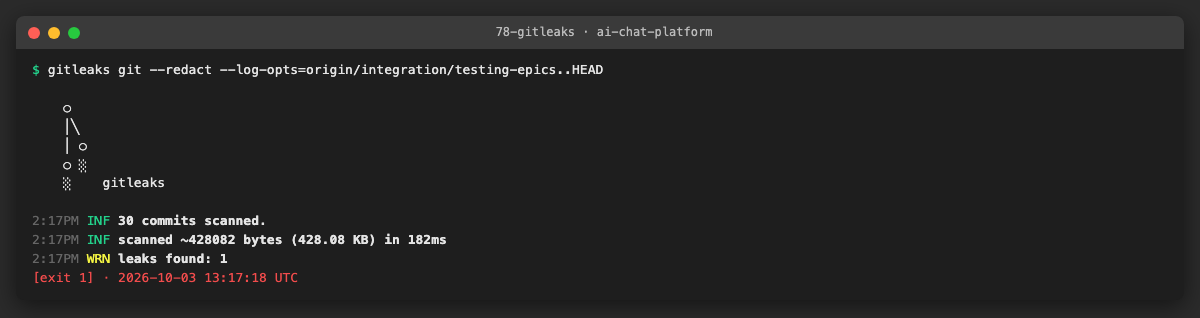
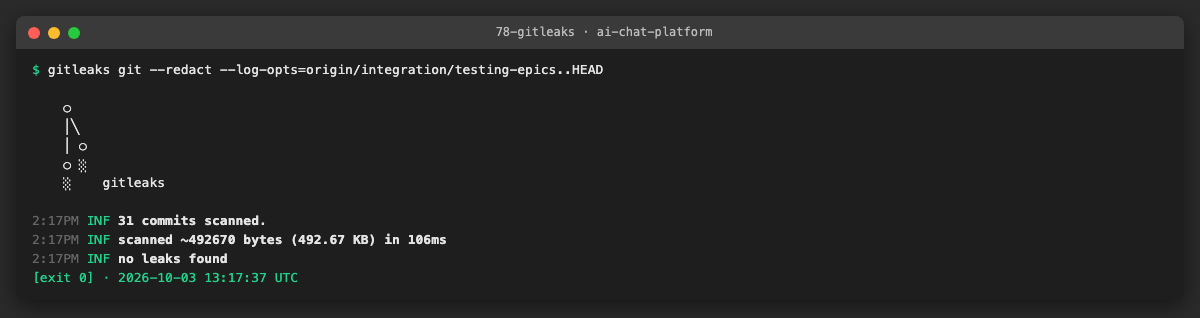
docs(mock): write US15 to US18 in the work log and fill the results, DoD and notes
Refs: AICHAT-144

diff --git a/docs/AICHAT-144/WORKLOG.md b/docs/AICHAT-144/WORKLOG.md
@@ -512,28 +512,176 @@ pnpm exec nx test mock-server
 ![Masked request log and reset](evidence/55-masked-request-log.png)
 ![mock-server tests](evidence/56-mock-server-tests.png)
 
-**Problems and fixes.** The log needs the parsed body, so the JSON parser runs before the mock routers; the parser skips a body that is already parsed, so routers that call `express.json()` themselves still work. The log is written when the request arrives and the status is filled in when the response finishes, so a slow request is already listed while it waits.
+**Problems and fixes.** The log needs the parsed body, so the JSON parser runs before the mock routers; the parser skips a body that is already parsed, so routers that call `express.json()` themselves still work. After the merge we changed this: the log no longer answers a malformed body itself (see the integration fixes in section 7). The log is written when the request arrives and the status is filled in when the response finishes, so a slow request is already listed while it waits.
+
+### US15 · Contract tests for the mocks ([AICHAT-151](https://ipca-grupo11.atlassian.net/browse/AICHAT-151))
+
+**What and why.** A mock that drifts from the real thing is worse than no mock. Two contract tests keep the mocks honest and fail CI when they drift. The LLM test starts the mock in-process and calls it with the real `AnthropicProvider` and `OpenAiProvider` of conversation-service, once for every scenario the mock registers (and for every recorded fixture served by `replay:`). Every scenario needs an entry in the expectation table, so a new scenario nobody checked fails the test. The backend test drives the auth and conversation mocks and checks each kind of response twice: against the service schemas in `src/conversation/contract.ts` (no missing and no extra field), and against `@platform/shared-types`. Where shared-types differs from the services, the mock follows the services and the difference is in an exact drift list in the test. A new difference fails the test, and so does a difference that was fixed but is still listed.
+
+**Files.**
+- `testing/mock-server/src/contract/llm.contract.spec.ts` (new): real adapters against every LLM scenario.
+- `testing/mock-server/src/contract/backend.contract.spec.ts` (new): responses and stream events against the service schemas and shared-types, the drift lists, and a check that what shared-types accepts as a request is accepted by the mock.
+- `testing/mock-server/project.json`: `implicitDependencies: ["conversation-service"]`, so a change to the adapters re-runs the mock-server tests in `nx affected`.
+
+**How to run.**
+
+```sh
+pnpm exec nx test mock-server
+cd testing/mock-server && pnpm exec vitest run src/contract
+```
+
+**How to repeat it manually.**
+
+1. Run `pnpm exec vitest run src/contract --reporter=verbose` in `testing/mock-server`. Expected: 30 tests pass, one per scenario and provider plus the backend checks.
+2. Add a required field to a shared-types schema, for example `pinned: z.boolean()` in `packages/shared-types/src/chat/chat.ts`, and run the backend contract test. Expected: it fails and prints the new difference `pinned: invalid_type` for `chat`. Undo the change.
+3. Add a scenario to the LLM mock without an entry in `EXPECTED`. Expected: "new scenario without a contract expectation".
+
+**Result.** Both tests pass on the current code, and the drift demo fails as intended.
+
+![Full run of the mock-server targets, 0 failures](evidence/70-mock-server-full-run.png)
+
+![Contract tests](evidence/71-contract-tests.png)
+
+![A change in shared-types fails the backend contract test](evidence/72-contract-drift-fails.png)
+
+**Findings for AICHAT-20 (snapshot testing): drift of `@platform/shared-types` from the services.** The mock follows the services; these are the differences the test records.
+
+| Kind | Service sends | shared-types says |
+|---|---|---|
+| auth `register`, `login`, `me` | `{ id, email }` | `authResponseSchema` is `{ user: { id, email, createdAt } }` |
+| chat | has `ownerEmail` | no `ownerEmail` |
+| message | `status` `sent`; `authorId`, `authorEmail`, `error`; `attachments` as objects; role may be `system` | statuses `complete` and `canceled` instead of `sent`; none of those fields; only `attachmentIds` |
+| attachment | `filename`, `kind`, `size`, `messageId` | `originalFilename`, `ownerId`, `storedPath`, `extractedTextStatus`, mime type enum |
+| stream events | events `message` and `started`; `queued` without `position`; `error` has `retryable`; `done` may have `stopped` | no `message` and no `started`; `queued` needs `position`; `error` without `retryable`; `done` without `stopped` |
+
+The member entry and the error body (`{ error, correlationId }`) agree. One more finding, for AICHAT-25: when the connection drops in the middle of a stream, both adapters let fetch's own `TypeError: terminated` through instead of a `ProviderError`. The contract test only requires that the adapter fails, and the comment on the expectation says so.
+
+**Problems and fixes.** The tests import the adapters by a relative path, which the Nx module boundary rule forbids, so the import lines carry an explicit `eslint-disable` with the reason (the adapters are the code under test). The mock-server test then depends on conversation-service, which is why the implicit dependency is declared.
+
+### US16 · Compose profiles and one-command start with the mocks ([AICHAT-152](https://ipca-grupo11.atlassian.net/browse/AICHAT-152))
+
+**What and why.** Testers should start the app against the mocks with one command. `compose.mock.yaml` is used on top of `compose.yaml` and adds two profiles. `llm` is the real stack plus the mock: conversation-service gets `ANTHROPIC_BASE_URL` and `OPENAI_BASE_URL` pointing at the mock, so no provider key is needed. `frontend-only` is the shell and the three MFEs plus the mock: the shell proxies `/auth` and `/api` to the mock, and no database or backend service starts. In the overlay the real services are put in the `llm` profile, so they stay out of `frontend-only`; the plain `docker compose up` of `compose.yaml` is not touched. The shell for `frontend-only` is a second service, `shell-frontend-only`, that extends `shell`. The shell strips `/api` before it forwards, so its target is `http://mock-server:4010/api`.
+
+**Files.**
+- `compose.mock.yaml` (new): `mock-server`, the profile assignments, the base URLs and `shell-frontend-only`.
+- `scripts/mock-compose.sh`, `scripts/dev-mock.sh` (new) and `package.json`: `pnpm mock:up`, `pnpm mock:down`, `pnpm dev:mock`.
+- `scripts/ci/mock-chat-smoke.sh` (new): register, sign in, create a chat, send a message and read the stream through the shell.
+- `.gitleaks.toml`: narrow exception for the first version of the smoke script (a throwaway password).
+
+**How to run.**
+
+```sh
+pnpm mock:up                                      # profile llm, app on :8000, mock on :4010
+bash scripts/mock-compose.sh up frontend-only     # shell + MFEs + backend mock
+bash scripts/ci/mock-chat-smoke.sh                # one chat flow through the shell
+pnpm mock:down                                    # stops both profiles and removes the volumes
+pnpm dev:mock                                     # no Docker: dev servers + mock on :4010
+```
+
+**How to repeat it manually.**
+
+1. `pnpm mock:up`, then `docker compose -f compose.yaml -f compose.mock.yaml --profile llm ps`. Expected: postgres, auth-service, conversation-service, the MFEs, the shell, the observability services and `mock-server` are healthy.
+2. `bash scripts/ci/mock-chat-smoke.sh`. Expected: the stream shows `started`, 40 `token` events and `done`. The text comes from the mock through conversation-service.
+3. `pnpm mock:down`, then `bash scripts/mock-compose.sh up frontend-only` and the same smoke script. Expected: only `mfe-auth`, `mfe-chat`, `mfe-settings`, `mock-server` and `shell-frontend-only` run, and the flow works.
+
+**Result.** Both profiles start and answer the chat flow. In the `llm` profile the answer goes through the real conversation-service and the mock.
+
+![Profile llm: services and a chat flow](evidence/73-compose-llm-profile.png)
+
+![Profile frontend-only: services and a chat flow](evidence/75-compose-frontend-only-profile.png)
+
+**Problems and fixes.** Compose cannot leave out a service that has no profile, so the `frontend-only` profile needs the real backend services to be profile-bound; that is done in the overlay only (`profiles: !override [llm]`), which keeps the default stack and the existing deploy commands unchanged. The conversation-service environment is validated as a URL, so the variable cannot be left empty and the overlay sets it to the mock. Ports 4001, 4002, 9090 and 3300 were in use by another stack on the machine, so we ran with `AUTH_SERVICE_PORT`, `CONVERSATION_SERVICE_PORT`, `PROMETHEUS_PORT` and `GRAFANA_PORT` changed; the overlay needs nothing else. We checked the `frontend-only` profile with the default dataset and the chat flow by curl; we did not click through the UI in that profile. `pnpm dev:mock` has a syntax check only: we did not run the five dev servers.
+
+### US17 · E2E chat flows in CI against the mock ([AICHAT-153](https://ipca-grupo11.atlassian.net/browse/AICHAT-153))
+
+**What and why.** The e2e workflow needed a real Anthropic key for any chat spec, so in CI the chat specs were skipped. Now the workflow starts the stack with `pnpm mock:up` (profile `llm`) and sets `ANTHROPIC_API_KEY` to a placeholder text, so conversation-service calls the mock and no real key is used. The whole suite still runs, as before. A new spec covers the flows the story asks for: send, stream, cancel (Stop, and removing a queued message), retry and provider error. Each test creates its chat through the API with a model name such as `claude-haiku-4-5@long`, which picks the mock scenario (`ok`, `long`, `error-529`). For the retry test the chat goes back to the normal model after the failure, as if the provider recovered, and the Retry button then gets an answer.
+
+**Files.**
+- `.github/workflows/e2e.yml`: `pnpm mock:up` and `pnpm mock:down`, placeholder key instead of the secret.
+- `e2e/src/tests/chat-mock.spec.ts` (new): the four tests.
+- `e2e/src/fixtures/settings-flows.ts`: `configureAnthropicKey` uses its own locators.
+- `e2e/src/ci/e2e-workflow.spec.ts`: the structure test follows the new commands and checks the `llm` profile and the missing secret.
+
+**How to run.**
+
+```sh
+pnpm mock:up
+cd e2e && BASE_URL=http://localhost:8000 ANTHROPIC_API_KEY=mock-key pnpm exec playwright test chat-mock.spec.ts
+pnpm mock:down
+```
+
+**How to repeat it manually.** Start the `llm` profile, sign up in the browser at `http://localhost:8000`, save any text as the Anthropic key in Settings, create a chat and send a message. Expected: the answer streams in, Stop keeps the part already written. In the workflow file, `ANTHROPIC_API_KEY` is the text `mock-key-not-a-secret`.
+
+**Result.** The four tests pass locally against the `llm` profile. The GitHub run is pending the pull request.
+
+![Playwright chat flows against the llm profile](evidence/74-playwright-chat-flows-llm-profile.png)
+
+**Problems and fixes.** The settings helper `apiKeyField` matches the form and the input at once (strict mode violation), which broke every chat spec before it reached the chat; we gave `configureAnthropicKey` its own locators and left `apiKeyField` and `saveApiKey` as they are for the configuration specs. As agreed, the other failing specs (auth, configuration, shell selectors, AICHAT-4/5) are not touched. The older `chat.spec.ts` (US-13 to US-22) also fails against the current UI: "New chat" now opens a dialog, and the specs look for test ids and labels that do not exist (`assistant-message`, `user-message`). Rewriting it is outside this story, so the chat flows of this story are in the new spec. This is an open question for the report.
+
+### US18 · Mock server usage guide for the other testing epics ([AICHAT-154](https://ipca-grupo11.atlassian.net/browse/AICHAT-154))
+
+**What and why.** The epics AICHAT-18, 19, 21, 24, 26, 28 and 32 should reuse the mock instead of building their own. `MOCK-SERVER.md` has the run commands, the mock and scenario tables, the environment variables, the admin endpoints and a short example for each of those epics.
+
+**Files.**
+- `docs/AICHAT-144/MOCK-SERVER.md` (new).
+
+**How to run.** Open [MOCK-SERVER.md](MOCK-SERVER.md). The scenario tables match `GET /__admin/scenarios`.
+
+**How to repeat it manually.** Start the server, run `curl localhost:4010/__admin/scenarios` and compare the names with the tables. Run one of the examples, for example the AICHAT-32 one (`GET /__admin/requests?mock=collect`).
+
+**Result.** The guide is written; the tables were copied from the live scenario list.
+
+**Problems and fixes.** The examples for AICHAT-24, 26 and 28 name the tools (k6, ZAP) but we did not run those tools here; they show the mock side of the setup.
 
 ## 4. How to run everything
 
 ```sh
-# all checks added by this epic, from the repo root
+export PATH=$HOME/.nvm/versions/node/v24.21.0/bin:$PATH
+# all checks of the mock server
+pnpm exec nx run-many -t lint typecheck test build -p mock-server --skip-nx-cache
+# everything that changed against the integration branch
+pnpm exec nx affected -t lint typecheck test build --base=origin/integration/testing-epics
+# contract tests only
+cd testing/mock-server && pnpm exec vitest run src/contract
+# stack with the mock, chat flows, stop
+pnpm mock:up
+cd e2e && BASE_URL=http://localhost:8000 ANTHROPIC_API_KEY=mock-key pnpm exec playwright test chat-mock.spec.ts
+pnpm mock:down
+# security checks
+bash scripts/ci/semgrep.sh
+gitleaks git --redact --log-opts=origin/integration/testing-epics..HEAD
 ```
 
 ## 5. Results
 
 | Metric | Before | After |
 |---|---|---|
-| … | … | … |
+| mock-server tests after the three tracks were merged | 3 failing | all pass (evidence 70) |
+| Contract tests (LLM scenarios and backend responses) | none | 30 tests, new drift fails |
+| Providers the e2e chat flows can use in CI | real Anthropic key only (specs skipped without it) | the LLM mock, placeholder key |
+| E2E chat flows against the mock | 0 | 4 pass locally (evidence 74) |
+| Compose profiles with the mock | 0 | 2 (`llm`, `frontend-only`) |
+| `nx affected` lint, typecheck, test, build | not run after the merge | 16 projects pass (evidence 76) |
+| Semgrep, gitleaks | not run for this branch | no new ERROR, no leaks (evidence 77, 78) |
 
 ## 6. DoD check
 
 | DoD item | Met | Evidence |
 |---|---|---|
-| … | ✅ | [link](evidence/…) |
+| Mock server runs locally and in CI with one command; health check green | Locally yes (`pnpm mock:up`, health in the compose check); CI pending PR run | [73](evidence/73-compose-llm-profile.png) |
+| Both LLM adapters stream a full answer from the mock (contract tests pass) | Yes | [71](evidence/71-contract-tests.png) |
+| Shell + MFEs work end to end against the backend mock (`frontend-only`) with every named dataset | Partly: the profile starts and the chat flow works with the default dataset; the other datasets were checked through the API tests, not in the browser | [75](evidence/75-compose-frontend-only-profile.png) |
+| Backend mock responses validated against `@platform/shared-types` (no drift from the real services) | Yes for the mock; the drift of shared-types itself is listed (US15) and passed to AICHAT-20; new drift fails the test | [72](evidence/72-contract-drift-fails.png) |
+| Fault scenarios reproducible on demand | Yes (US6, US7, US11, US12) | see US sections |
+| E2E chat flows run in CI against the mock, no real key used | Locally yes; GitHub run pending PR run | [74](evidence/74-playwright-chat-flows-llm-profile.png) |
+| Run instructions and scenario list documented | Yes | [MOCK-SERVER.md](MOCK-SERVER.md) |
+| `nx affected` green, Semgrep and gitleaks clean | Yes | [76](evidence/76-affected-final.png), [77](evidence/77-semgrep.png), [78](evidence/78-gitleaks.png) |
+| e2e workflow green on GitHub | pending PR run | |
 
 ## 7. Notes for the report
 
-- What was found
-- What was fixed / waived
-- Lessons learned
+- **Integration fixes after merging the three tracks.** The request log of the edge track parsed the JSON body for every router and answered `invalid_json` itself, which broke the real error shape of the auth and conversation mocks. It now parses leniently: the error is kept on the request and each router answers in its own shape (`VALIDATION_ERROR` for auth and conversation, `invalid_request_error` for the two LLM mocks). The scenario-list assertions of the remotes and conversation specs are filtered by mock. The streamed chat answer now takes its text from the LLM module (`streamScenarioText`), so `long` is ten times `TOKENS` like in the LLM mock (it was five); `error` keeps the text of `ok` and fails after two tokens. `.vitest/` is ignored.
+- **Found:** `@platform/shared-types` has drifted from auth-service and conversation-service (table in US15); this is the input for AICHAT-20. The adapters do not wrap a dropped connection in a `ProviderError` (input for AICHAT-25).
+- **Found:** the settings helper `apiKeyField` is ambiguous and the older `chat.spec.ts` no longer matches the chat UI. We fixed the first only for the chat specs and left the rest, as agreed with the owner.
+- **Waived / not done:** the other failing e2e specs (AICHAT-4/5); a browser check of every dataset in `frontend-only`; a live run of `pnpm dev:mock`; the GitHub run of the e2e workflow.
+- **Lessons learned:** a profile that must leave services out needs those services to be profile-bound, so the overlay file is the safe place for it. Choosing the scenario with the model name works through the real conversation-service without any change to it. Ports of other stacks on a developer machine can collide with the compose defaults; every published port has an environment variable.
